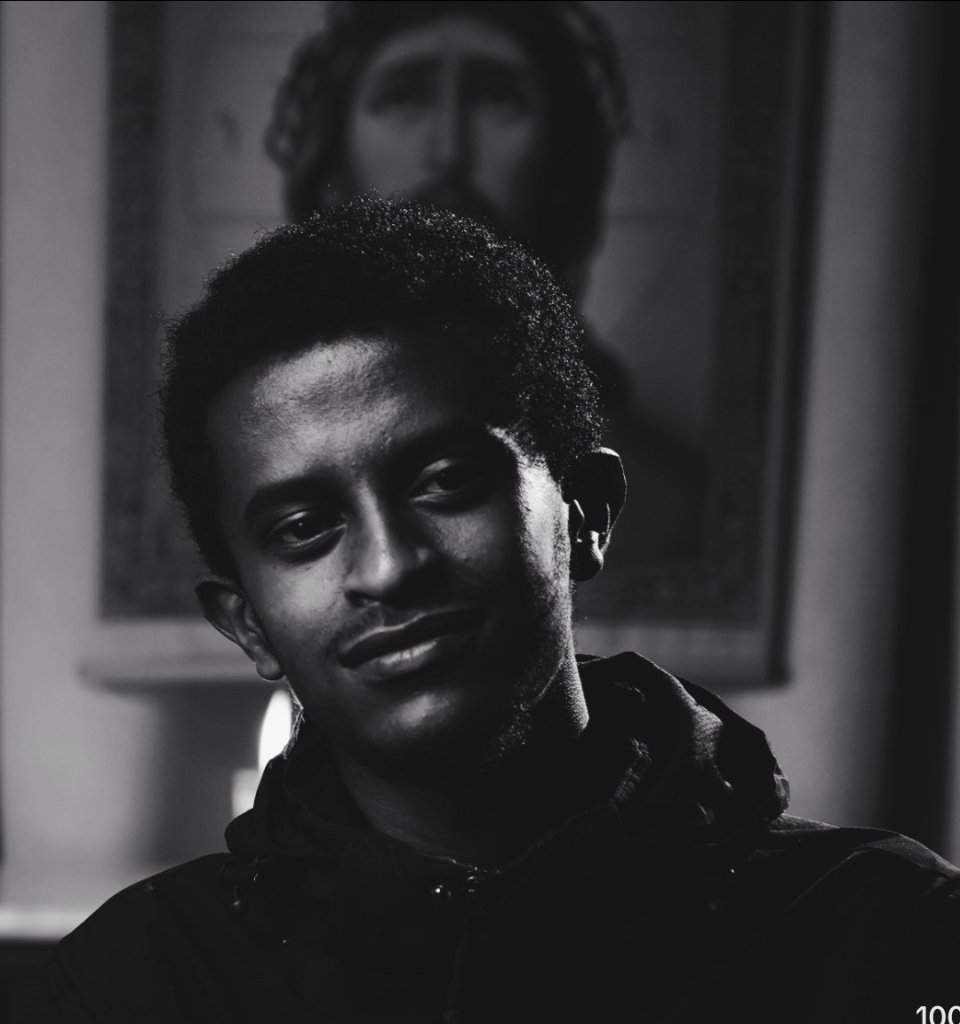
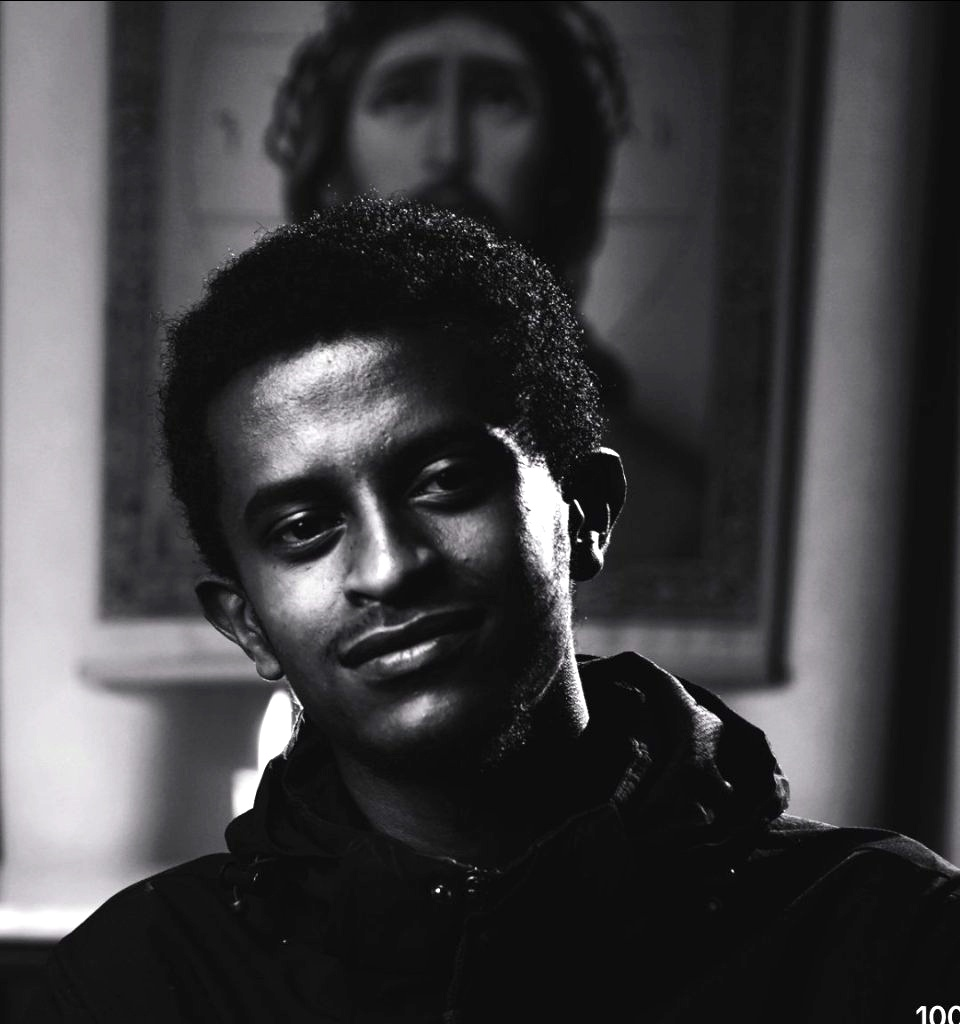
refactor: update typography, styling, and portrait assets for portfolio UI

diff --git a/src/app/globals.css b/src/app/globals.css
@@ -104,64 +104,58 @@
 }
 
 .font-sans {
-  font-family: var(--font-geist-sans), "Geist Sans", ui-sans-serif, system-ui, -apple-system, BlinkMacSystemFont, "Segoe UI", Roboto, sans-serif !important;
+  font-family: "Archivo", var(--font-geist-sans), ui-sans-serif, system-ui, -apple-system, BlinkMacSystemFont, "Segoe UI", Roboto, sans-serif !important;
 }
 .font-mono {
   font-family: var(--font-geist-mono), "Geist Mono", ui-monospace, SFMono-Regular, Menlo, Monaco, Consolas, monospace !important;
 }
-.font-serif {
-  font-family: var(--font-geist-serif), "Geist Serif", Georgia, Cambria, "Times New Roman", Times, serif !important;
-}
-.font-serif-regular {
-  font-family: var(--font-geist-serif-regular), "Geist Serif Regular", "Geist Serif", Georgia, Cambria, "Times New Roman", Times, serif !important;
-}
-.font-serif-square {
-  font-family: var(--font-geist-serif-square), "Geist Serif Square", "Geist Serif", Georgia, Cambria, "Times New Roman", Times, serif !important;
-}
+.font-serif,
+.font-serif-regular,
+.font-serif-square,
 .font-serif-triangle {
-  font-family: var(--font-geist-serif-triangle), "Geist Serif Triangle", "Geist Serif", Georgia, Cambria, "Times New Roman", Times, serif !important;
+  font-family: "Archivo", -apple-system, BlinkMacSystemFont, sans-serif !important;
 }
 .font-serif-heart {
-  font-family: var(--font-geist-serif-heart), "Geist Serif Heart", "Geist Serif", Georgia, Cambria, "Times New Roman", Times, serif !important;
+  font-family: var(--font-geist-serif-heart), "Geist Serif Heart", Georgia, serif !important;
 }
 
-/* Typography Hierarchy with Archivo: Bolder headings and titles, clean normal paragraphs */
+/* Typography Hierarchy with Archivo: Extra bold headings and titles, clean normal paragraphs */
 h1, .k-h1, h1.font-serif {
-  font-family: "Archivo", var(--font-geist-sans), sans-serif;
+  font-family: "Archivo", -apple-system, BlinkMacSystemFont, sans-serif !important;
   font-optical-sizing: auto;
-  font-weight: 750;
-  letter-spacing: -0.03em;
+  font-weight: 850 !important;
+  letter-spacing: -0.035em;
   font-variation-settings: "wdth" 100;
 }
 
 h2:not(.k-label), .k-h2, h2.font-serif {
-  font-family: "Archivo", var(--font-geist-sans), sans-serif;
+  font-family: "Archivo", -apple-system, BlinkMacSystemFont, sans-serif !important;
   font-optical-sizing: auto;
-  font-weight: 700;
+  font-weight: 800 !important;
   letter-spacing: -0.025em;
   font-variation-settings: "wdth" 100;
 }
 
 h3, .k-h3, h3.font-serif, h3.font-serif-regular, h3.font-serif-square {
-  font-family: "Archivo", var(--font-geist-sans), sans-serif;
+  font-family: "Archivo", -apple-system, BlinkMacSystemFont, sans-serif !important;
   font-optical-sizing: auto;
-  font-weight: 650;
+  font-weight: 750 !important;
   letter-spacing: -0.02em;
   font-variation-settings: "wdth" 100;
 }
 
 h4, h5, h6 {
-  font-family: "Archivo", var(--font-geist-sans), sans-serif;
+  font-family: "Archivo", -apple-system, BlinkMacSystemFont, sans-serif !important;
   font-optical-sizing: auto;
-  font-weight: 600;
+  font-weight: 700 !important;
   font-variation-settings: "wdth" 100;
 }
 
 /* Titles, list headers, and featured links */
 .font-serif-regular, .k-title {
-  font-family: "Archivo", var(--font-geist-sans), sans-serif;
+  font-family: "Archivo", -apple-system, BlinkMacSystemFont, sans-serif !important;
   font-optical-sizing: auto;
-  font-weight: 600;
+  font-weight: 650 !important;
   font-variation-settings: "wdth" 100;
 }
 

diff --git a/src/components/scatter-portrait.tsx b/src/components/scatter-portrait.tsx
@@ -93,11 +93,11 @@ void main() {
   // Calculate mouse position in pixel coordinates
   vec2 mousePixel = u_laggedMouse * u_resolution;
   
-  // Dot grid effect parameters (in pixels)
+  // Dot grid effect parameters (in pixels) - tuned for crisp photographic fidelity
   float lightDotSizePixels = 2.7;
   float lightSpacingPixels = 5.8;
-  float darkDotSizePixels = 2.5;
-  float darkSpacingPixels = 5.3;
+  float darkDotSizePixels = 2.7;
+  float darkSpacingPixels = 4.8;
   float dotSizePixels = mix(lightDotSizePixels, darkDotSizePixels, u_darkMode);
   float spacingPixels = mix(lightSpacingPixels, darkSpacingPixels, u_darkMode);
   
@@ -124,13 +124,17 @@ void main() {
     gridColor = texture2D(u_texture, originalGridUV);
   }
   
-  // Calculate brightness of the original color
-  float brightness = (gridColor.r + gridColor.g + gridColor.b) / 3.0;
+  // Calculate perceptual luminance of the original color (human vision weights)
+  float luma = dot(gridColor.rgb, vec3(0.299, 0.587, 0.114));
   
-  // Adjust dot size based on brightness (in pixels)
-  float lightAdjustedDotSize = dotSizePixels * smoothstep(0.2, 0.8, (1.0 - brightness));
-  // A faint dot even where the photo is dark, so the grid reads as a whole square.
-  float darkAdjustedDotSize = dotSizePixels * mix(0.3, 1.0, smoothstep(0.15, 1.0, brightness));
+  // Gamma and contrast expansion to clearly define facial features, eyes, smile and contours
+  float enhancedLuma = pow(luma, 0.72);
+  float contrast = smoothstep(0.06, 0.82, enhancedLuma);
+  
+  // Adjust dot size based on brightness
+  float lightAdjustedDotSize = dotSizePixels * smoothstep(0.2, 0.8, (1.0 - luma));
+  // In dark mode: dramatic dynamic range (0.16 to 1.35) so features are sharp and unmistakable
+  float darkAdjustedDotSize = dotSizePixels * mix(0.16, 1.35, contrast);
   float baseDotSize = mix(lightAdjustedDotSize, darkAdjustedDotSize, u_darkMode);
   
   float adjustedDotSize = baseDotSize;

diff --git a/src/app/about/page.tsx b/src/app/about/page.tsx
@@ -42,7 +42,7 @@ export default function AboutPage() {
             <span>About</span>
           </p>
 
-          <h1 className="mt-3 font-serif text-2xl font-medium tracking-[-0.025em] text-[#ededed]">
+          <h1 className="mt-3 text-[28px] sm:text-[34px] font-extrabold tracking-[-0.035em] text-[#ededed]">
             {profile.name}
           </h1>
 
@@ -67,7 +67,7 @@ export default function AboutPage() {
         {/* Interactive Scatter Dot Portrait */}
         <div className="sm:self-stretch">
           <figure className="m-0 flex h-full flex-col justify-between gap-2.5">
-            <div className="relative aspect-square w-full overflow-hidden rounded-[4px] border border-white/5 bg-[#141416] opacity-[0.85]">
+            <div className="relative aspect-square w-full overflow-hidden rounded-[4px] border border-white/5 bg-[#141416]">
               <ScatterPortrait
                 darkSrc="/portrait.jpg"
                 lightSrc="/portrait.jpg"

diff --git a/src/components/site-footer.tsx b/src/components/site-footer.tsx
@@ -8,10 +8,6 @@ export function SiteFooter() {
     <footer className="k-rule-t k-label flex flex-wrap items-center justify-between gap-3 py-5 mt-16">
       <span className="flex items-center gap-1.5">
         <span>© 2026 {profile.name}</span>
-        <span aria-hidden="true" className="mx-1 text-[#4a4a4a]">·</span>
-        <span>Built with</span>
-        <span className="font-serif-heart text-[#ededed] text-sm inline-block select-none" title="Crafted with care">♥</span>
-        <span>in Addis Ababa</span>
       </span>
       <span className="flex gap-5">
         <Link

diff --git a/src/app/books/page.tsx b/src/app/books/page.tsx
@@ -14,7 +14,7 @@ export default function BooksPage() {
             <span aria-hidden="true" className="mx-1.5 text-[#4a4a4a]">/</span>
             <span>Books</span>
           </p>
-          <h1 className="mt-3 font-serif text-2xl font-medium tracking-[-0.025em] text-[#ededed]">
+          <h1 className="mt-3 text-[26px] sm:text-[30px] font-extrabold tracking-[-0.035em] text-[#ededed]">
             Books I&#39;ve read
           </h1>
           <div className="mt-4 max-w-[60ch] font-sans space-y-4 leading-7 text-[#b7b7b7]">

diff --git a/src/app/playlists/page.tsx b/src/app/playlists/page.tsx
@@ -25,7 +25,7 @@ export default function PlaylistsPage() {
             <span aria-hidden="true" className="mx-1.5 text-[#4a4a4a]">/</span>
             <span>Playlists</span>
           </p>
-          <h1 className="mt-3 font-serif text-2xl font-medium tracking-[-0.025em] text-[#ededed]">
+          <h1 className="mt-3 text-[26px] sm:text-[30px] font-extrabold tracking-[-0.035em] text-[#ededed]">
             On repeat
           </h1>
           <div className="mt-4 max-w-[60ch] font-sans space-y-4 leading-7 text-[#b7b7b7]">

diff --git a/src/app/articles/page.tsx b/src/app/articles/page.tsx
@@ -23,7 +23,7 @@ export default function ArticlesPage() {
             <span aria-hidden="true" className="mx-1.5 text-[#4a4a4a]">/</span>
             <span>Writing</span>
           </p>
-          <h1 className="mt-3 font-serif text-2xl font-medium tracking-[-0.025em] text-[#ededed]">
+          <h1 className="mt-3 text-[26px] sm:text-[30px] font-extrabold tracking-[-0.035em] text-[#ededed]">
             Blog
           </h1>
           <div className="mt-4 max-w-[60ch] font-sans space-y-4 leading-7 text-[#b7b7b7]">

diff --git a/src/app/pics/page.tsx b/src/app/pics/page.tsx
@@ -24,7 +24,7 @@ export default function PicsPage() {
             <span aria-hidden="true" className="mx-1.5 text-[#4a4a4a]">/</span>
             <span>Pics</span>
           </p>
-          <h1 className="mt-3 font-serif text-2xl font-medium tracking-[-0.025em] text-[#ededed]">
+          <h1 className="mt-3 text-[26px] sm:text-[30px] font-extrabold tracking-[-0.035em] text-[#ededed]">
             Pictures
           </h1>
           <div className="mt-4 max-w-[60ch] font-sans space-y-4 leading-7 text-[#b7b7b7]">

diff --git a/src/app/page.tsx b/src/app/page.tsx
@@ -31,7 +31,7 @@ export default function Home() {
           <span>{profile.roleTitle}</span>
         </p>
 
-        <h1 className="mt-3 font-serif text-2xl font-medium tracking-[-0.025em] text-[#ededed]">
+        <h1 className="mt-3 text-[28px] sm:text-[34px] font-extrabold tracking-[-0.035em] text-[#ededed]">
           {profile.name}
         </h1>
 
